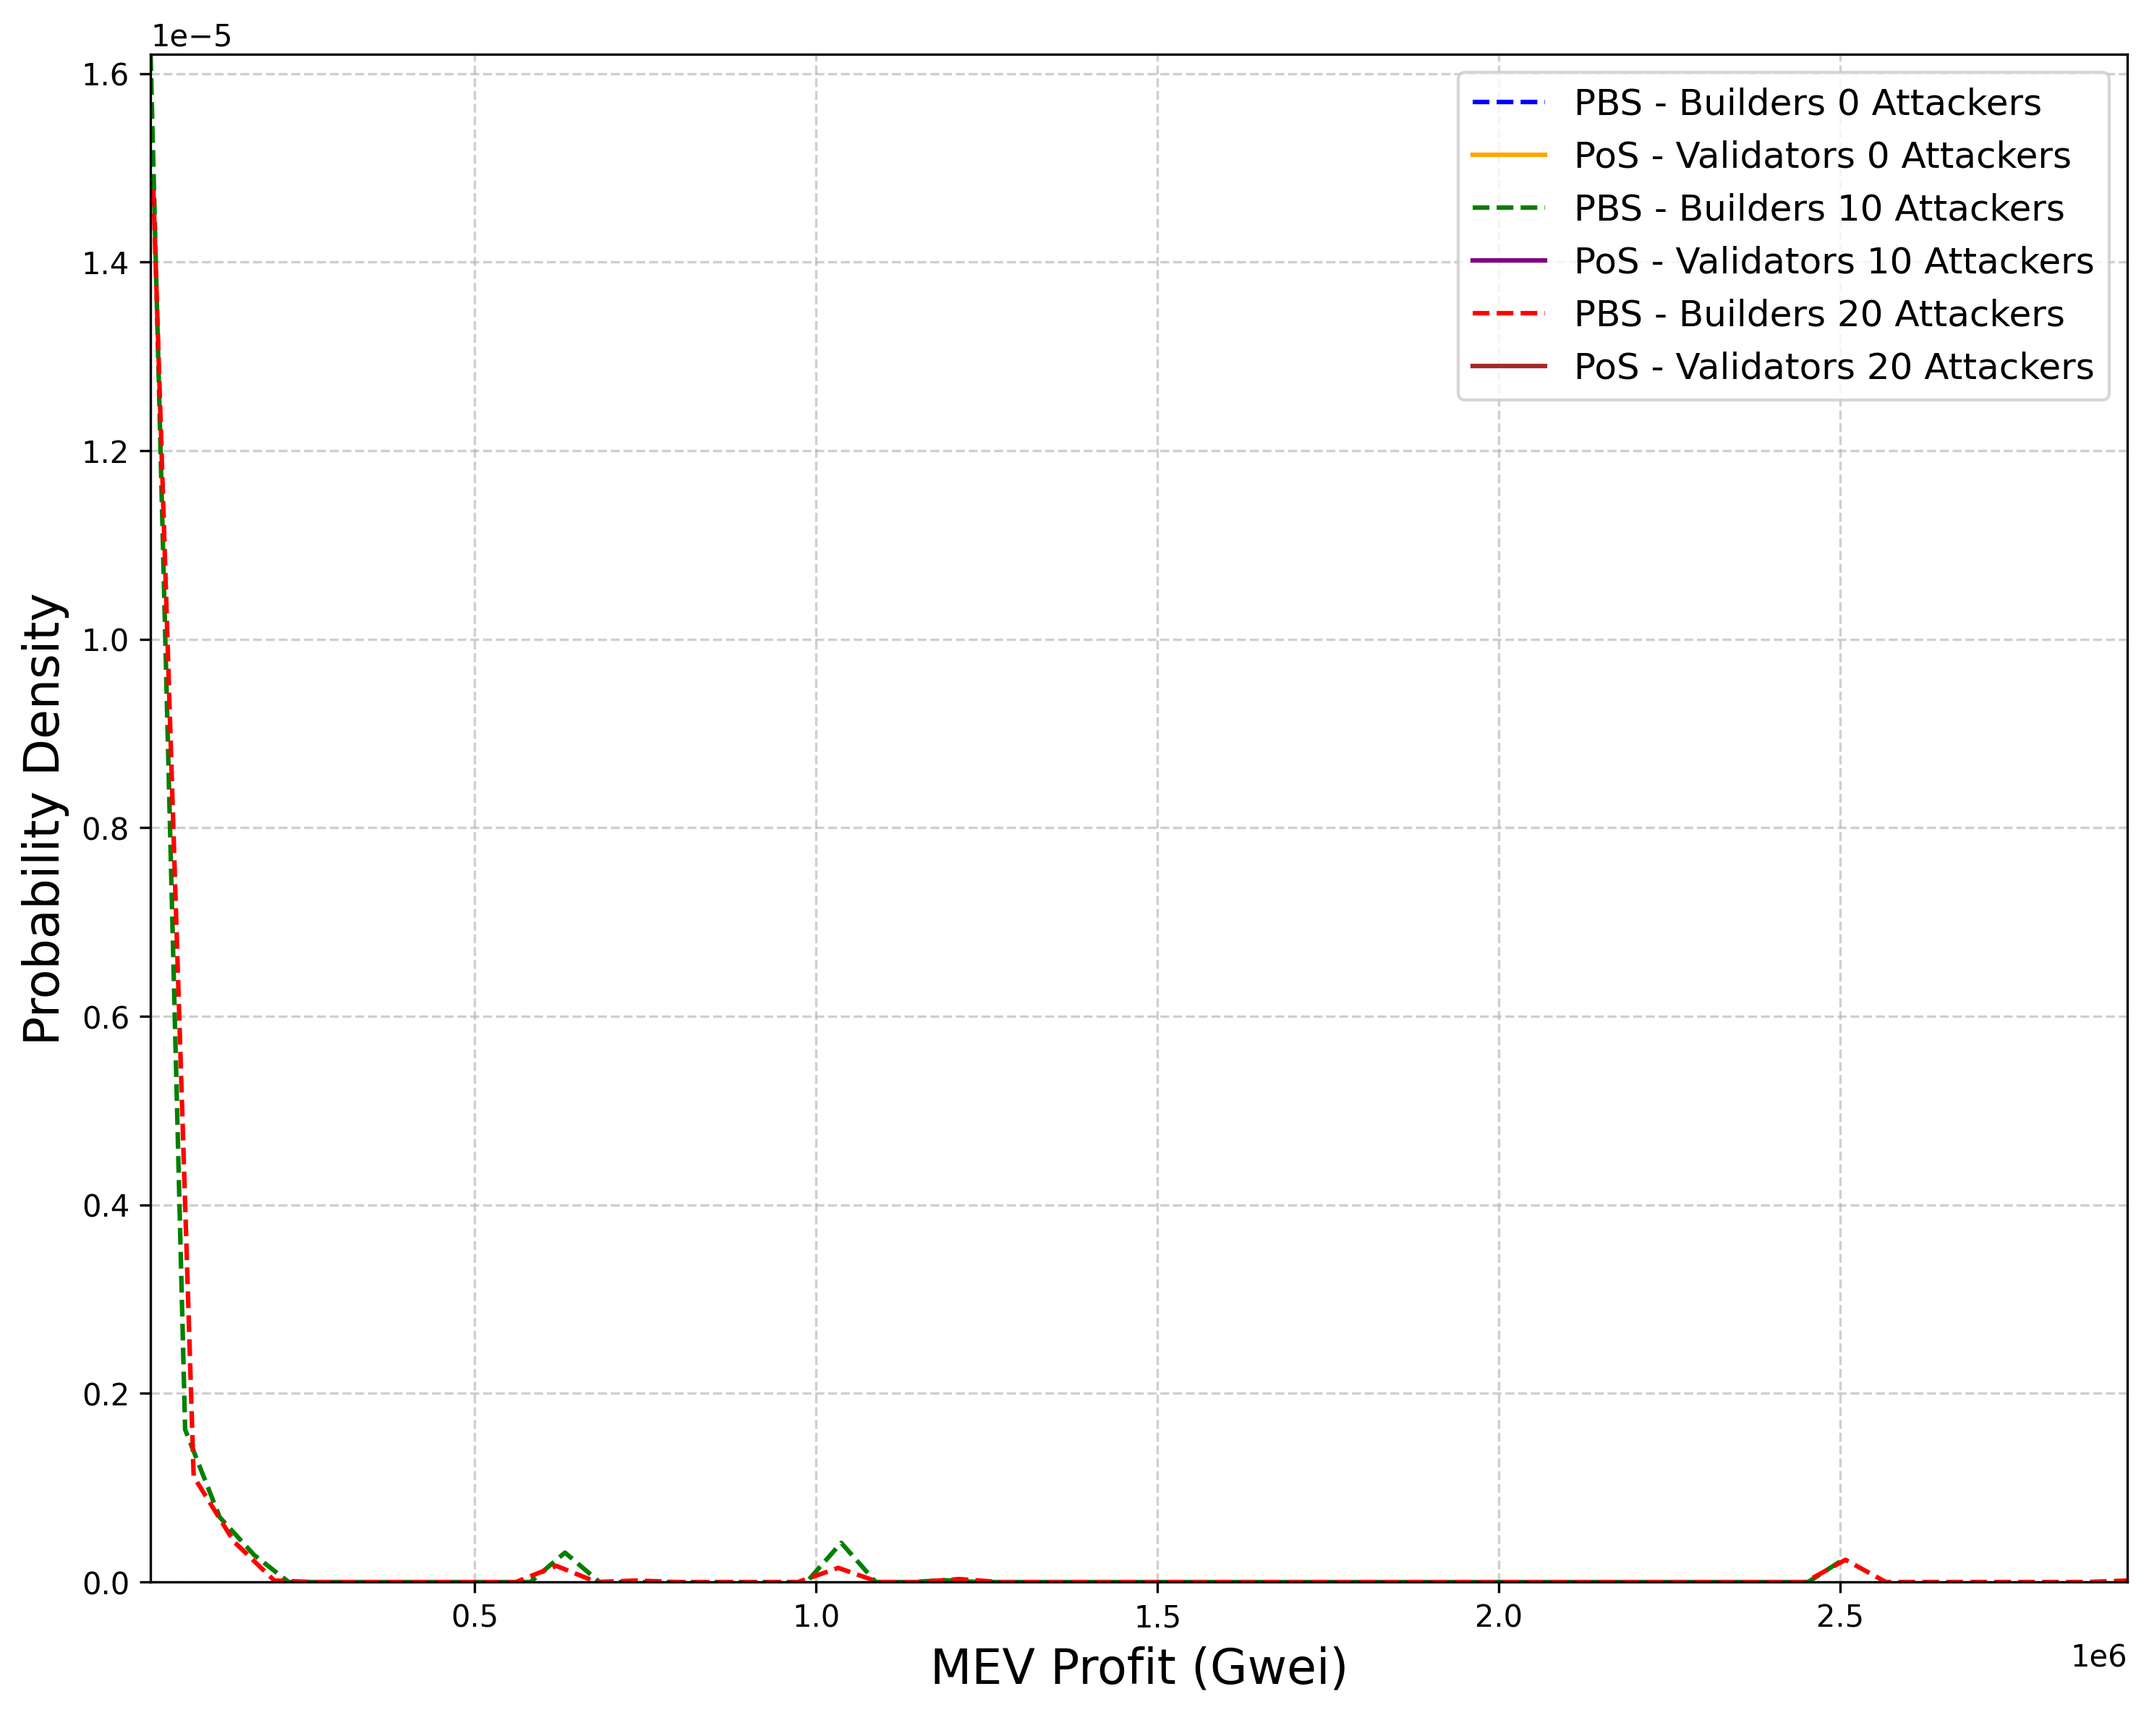
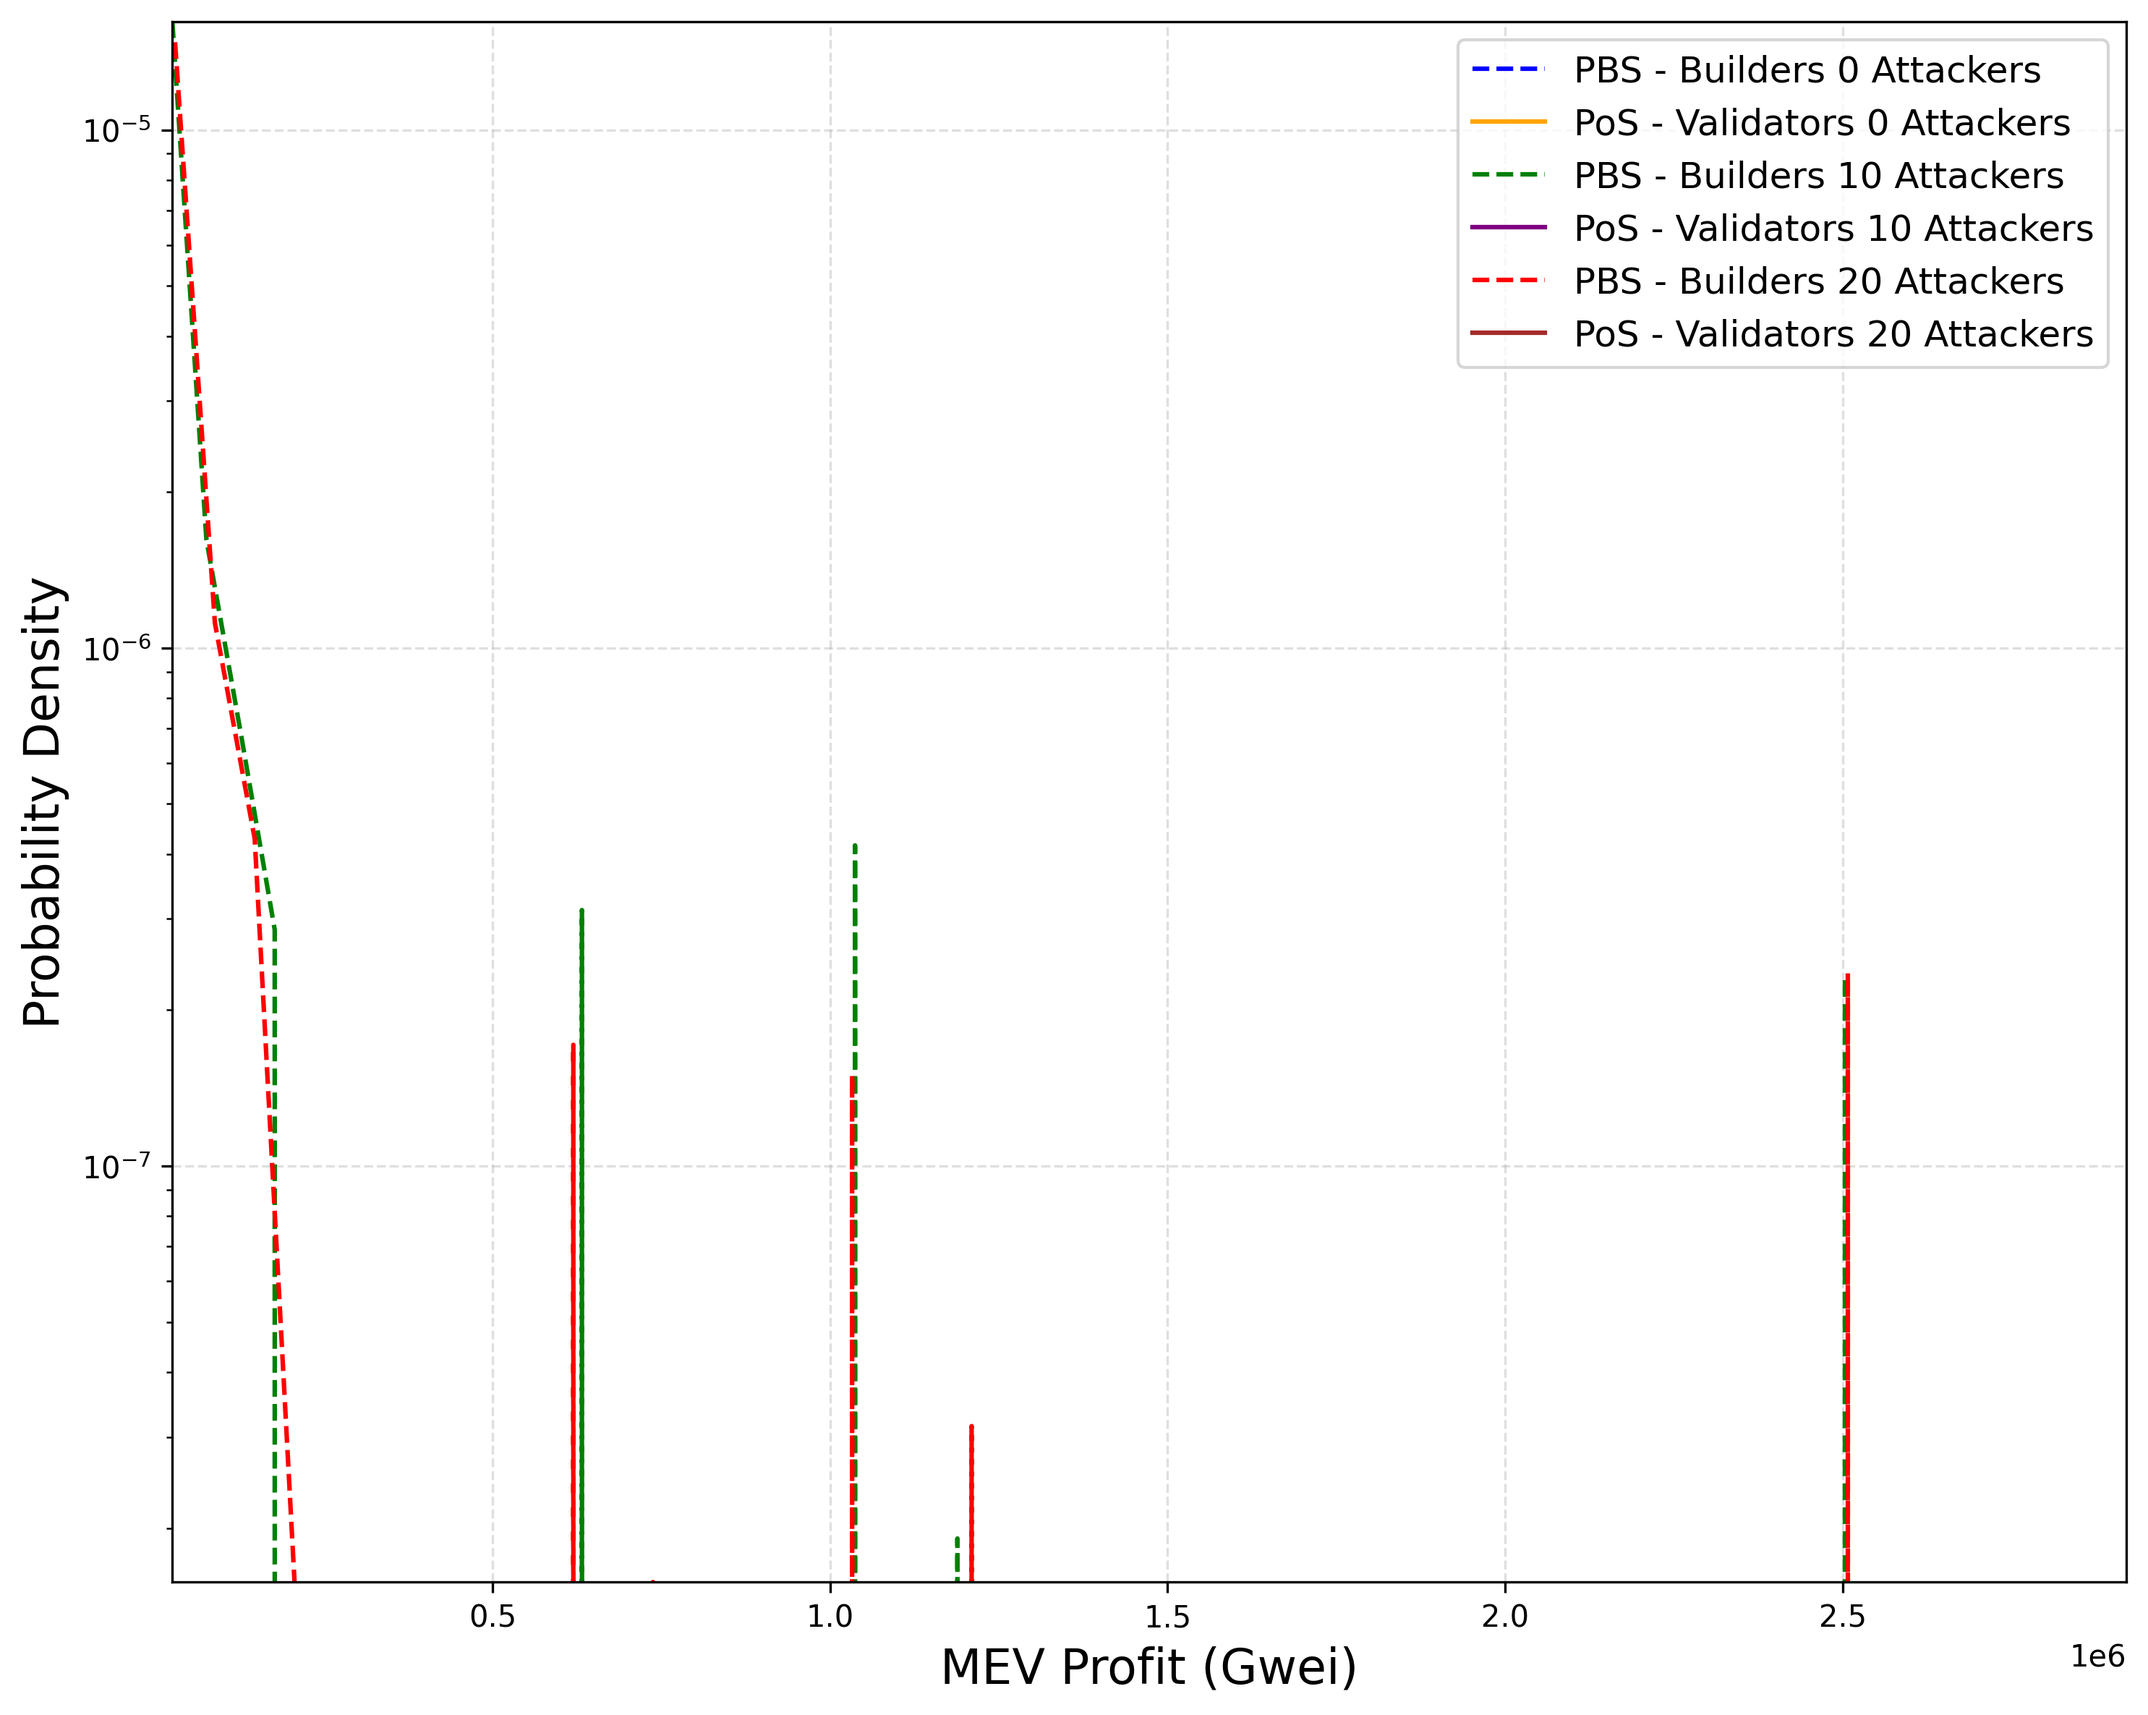
inversion count

diff --git a/plots/ss/tx_order.py b/plots/ss/tx_order.py
@@ -1,0 +1,134 @@
+import os
+import csv
+import numpy as np
+import pandas as pd
+import seaborn as sns
+import matplotlib.pyplot as plt
+from collections import defaultdict
+
+def calculate_inversion_count(transactions_by_block):
+    """
+    Calculate the inversion count for transaction order and cumulative position.
+    """
+    cumulative_position = 0
+    ids = []
+    absolute_positions = []
+    
+    for block_transactions in transactions_by_block:
+        for tx in block_transactions:
+            tx_id = int(tx['id'])
+            position_in_block = int(tx['position'])
+            absolute_position = cumulative_position + position_in_block
+
+            ids.append(tx_id)
+            absolute_positions.append(absolute_position)
+        
+        cumulative_position += len(block_transactions)
+
+    # Calculate inversion count
+    inversion_count = count_inversions(ids, absolute_positions)
+    return inversion_count
+
+def count_inversions(ids, positions):
+    """
+    Count inversions in the list of positions.
+    """
+    inversion_count = 0
+    n = len(ids)
+    
+    for i in range(n):
+        for j in range(i + 1, n):
+            if positions[i] > positions[j]:  # An inversion is found
+                inversion_count += 1
+    
+    return inversion_count
+
+def process_file(file_path):
+    """
+    Process a single CSV file to group transactions by blocks and compute the inversion count.
+    """
+    transactions_by_block = defaultdict(list)
+    
+    with open(file_path, 'r') as f:
+        reader = csv.DictReader(f)
+        for row in reader:
+            block_number = int(row['included_at'])
+            transactions_by_block[block_number].append(row)
+    
+    sorted_blocks = [transactions_by_block[block] for block in sorted(transactions_by_block.keys())]
+    
+    # Compute inversion count
+    inversion_count = calculate_inversion_count(sorted_blocks)
+    
+    return inversion_count
+
+def process_all_files(data_folder):
+    """
+    Process all transaction files in a folder for different builder and user configurations.
+    """
+    results = {}
+    
+    for filename in os.listdir(data_folder):
+        if filename.startswith("pbs_transactions") or filename.startswith("pos_transactions"):
+            parts = filename.split("_")
+            
+            # Handle different naming conventions for builders (PBS) and validators (PoS)
+            if "builders" in parts[2]:
+                builder_attack_count = int(parts[2].replace("builders", ""))
+            elif "validators" in parts[2]:
+                builder_attack_count = int(parts[2].replace("validators", ""))
+            else:
+                print(f"Skipping file {filename} due to unexpected format.")
+                continue
+            
+            user_attack_count = int(parts[3].replace("users", "").split(".")[0])
+
+            file_path = os.path.join(data_folder, filename)
+            inversion_count = process_file(file_path)
+            
+            if user_attack_count not in results:
+                results[user_attack_count] = {}
+            results[user_attack_count][builder_attack_count] = inversion_count
+
+    return results
+
+def print_results(results, label):
+    """
+    Print inversion counts for each configuration.
+    """
+    print(f"Inversion Counts ({label}):")
+    for user_attack_count, builders in results.items():
+        for builder_attack_count, inversions in builders.items():
+            print(f"Users: {user_attack_count}, Builders/Validators: {builder_attack_count} -> Inversions: {inversions}")
+
+def plot_heatmap(results, title):
+    """
+    Plot a heatmap of inversion counts for each user and builder configuration.
+    """
+    df = pd.DataFrame(results).T.sort_index(ascending=False).sort_index(axis=1)
+
+    plt.figure(figsize=(10, 8))
+    sns.heatmap(df, annot=True, fmt=".0f", cmap="YlGnBu", cbar_kws={'label': "Inversion Count"})
+    plt.title(title)
+    plt.xlabel("Number of Attacking Builders/Validators")
+    plt.ylabel("Number of Attacking Users")
+    plt.tight_layout()
+    plt.show()
+
+if __name__ == "__main__":
+    pos_data_folder = 'data/same_seed/pos_visible80'  # Path to PoS data folder
+    pbs_data_folder = 'data/same_seed/pbs_visible80'  # Path to PBS data folder
+    
+    # Calculate inversion counts for each configuration for PoS and PBS
+    pos_results = process_all_files(pos_data_folder)
+    pbs_results = process_all_files(pbs_data_folder)
+    
+    # Print the results for each system
+    print_results(pos_results, "PoS")
+    print_results(pbs_results, "PBS")
+    
+    # Plot heatmap of results for PoS
+    plot_heatmap(pos_results, "Inversion Counts for PoS")
+
+    # Plot heatmap of results for PBS
+    plot_heatmap(pbs_results, "Inversion Counts for PBS")

diff --git a/plots/ss/pdf_comparison.py b/plots/ss/pdf_comparison.py
@@ -98,8 +98,9 @@ def plot_mev_pdf(data_folder, output_folder, user_attack_count):
 
     plt.xlabel("MEV Profit (Gwei)", fontsize=16)
     plt.ylabel("Probability Density", fontsize=16)
+    plt.yscale('log')  # Set y-axis to logarithmic scale for exponential scaling
     plt.legend(loc="upper right", fontsize=12)
-    plt.grid(True, linestyle='--', alpha=0.6)
+    plt.grid(True, linestyle='--', alpha=0.4)
     plt.margins(x=0, y=0)
     plt.tight_layout()
     
